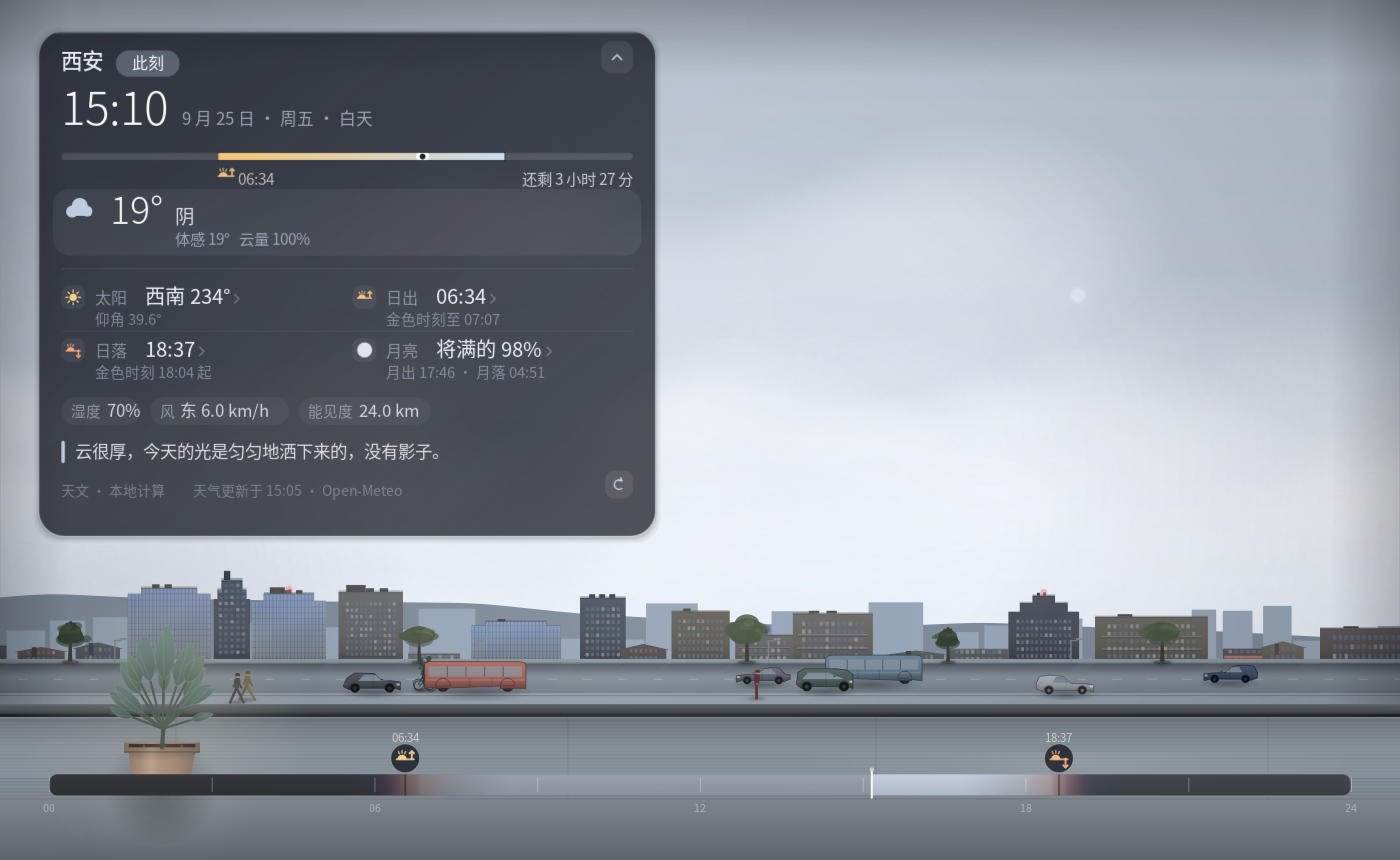
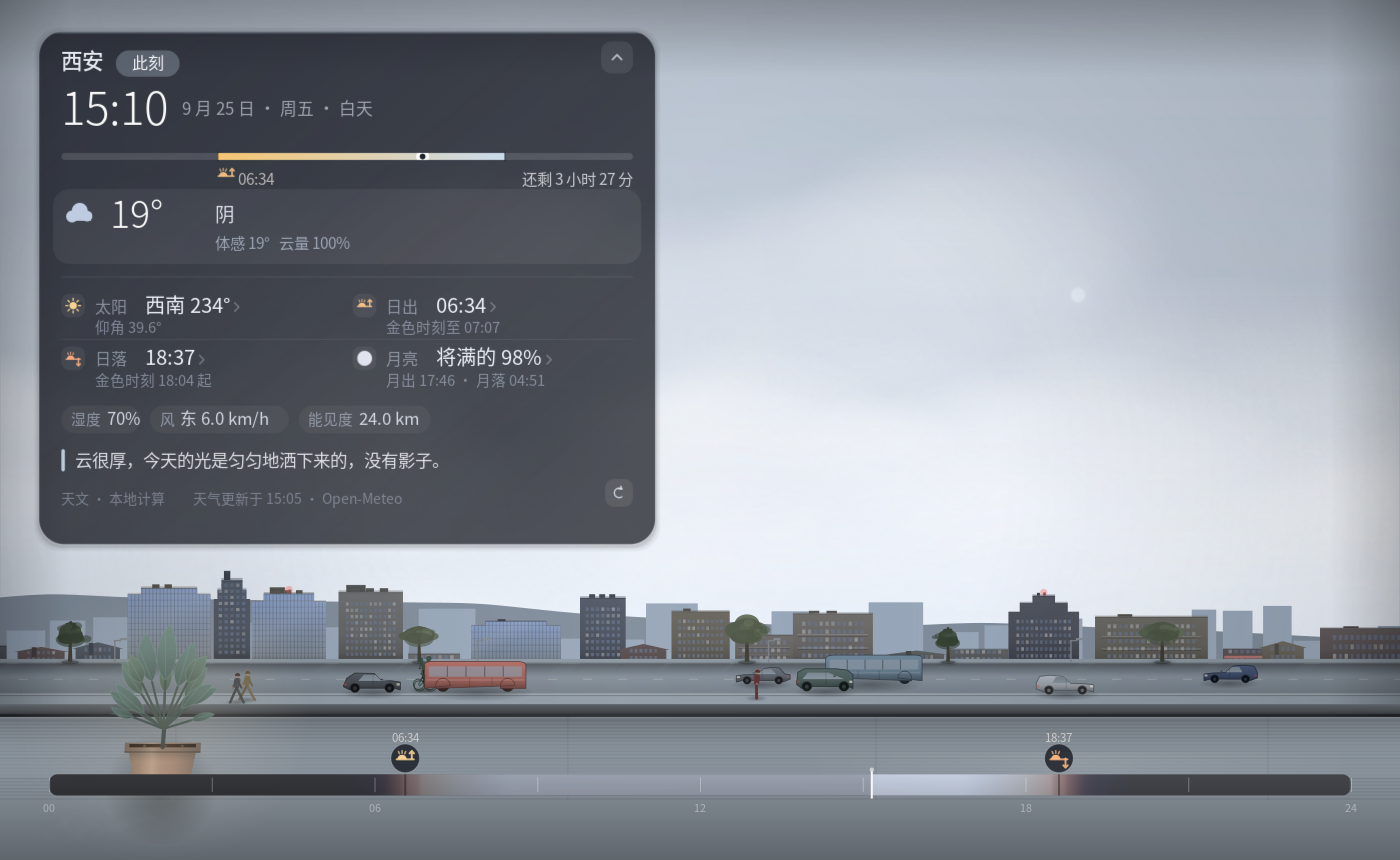
v1.1.14 第二版：主角块的温度与天气按"字面中线"对齐
用户看着截图说得很准：框里那个 21° 快飘到顶上去了，跟右边的"毛毛雨"不在一条
线上；而且右边那两行字是"跟着温度的宽度跑"的，温度一变就左右挪。

1. 大字号旁边的小字改成**按字面中线**对齐（render.optical_shift）：
   以前是"共用基线"——27 磅温度的下缘压着 14 磅的天气，温度的字面中心就高出
   小半行。现在大字中线在 `基线 − 0.36×字号`、小字在 `− 0.38×字号`，两者对齐；
   字号差不到 1.6 倍时仍然共用基线（指标格的"太阳 / 南 173°"就该那样）。
   同一处也用在大字时间与日期那一行（日期不再往下掉）。
2. 主角块改成**真正的两列**：温度占一个固定宽度的槽，右边那句天气与它下面的
   小字钉在固定的 x 上——以前它们是"跟在温度后面 9 像素"，`21°/9°/-12°` 会让
   右列左右挪（测试里对着四种温度量过，右列左边界now 恒定）。
3. 主角块内部的行距重新排过：上下留白对称，副值不贴右列第一行。

新增测试：optical_shift 的规则（含 1.6 倍门槛）+ 已有的七种窗口尺寸不越界，
共 176 条；TZ=UTC、make check、.deb(1.1.14)、满载 GUI 冒烟全过；截图重跑。

diff --git a/chuang/render.py b/chuang/render.py
@@ -173,6 +173,20 @@ def draw_text_bl(cr, text, x, baseline, size, color, alpha=1.0,
                      size, color, alpha, weight, align)
 
 
+def optical_shift(big_baseline: float, big_size: float, small_size: float) -> float:
+    """小字跟在大字旁边时，它的基线该放在哪儿。
+
+    字号差不多（差不到 1.6 倍）时**共用基线**才是"齐"的；字号差得大时相反：
+    共用基线会让大字的下缘压住小字，小字看上去往下掉（用户对着截图说的
+    "温度飘到顶上去了 / 小字掉下去了"就是这一件事的两面）。
+    那就按**字面中线**对齐：大字中线的经验位置在 `基线 - 0.36 × 字号`，
+    小字中线在 `基线 - 0.38 × 字号`，两者相等即可解出小字的基线。
+    """
+    if big_size < small_size * 1.6:
+        return big_baseline
+    return big_baseline - 0.36 * big_size + 0.38 * small_size
+
+
 def rounded_rect(cr, x, y, w, h, r):
     r = min(r, w / 2, h / 2)
     cr.new_sub_path()
@@ -2380,7 +2394,7 @@ class SkyPainter:
         show_arc = bool(sunr and suns and suns > sunr) and not compact
         head_h = 30 * scale
         time_h = (32 if compact else 42) * scale
-        hero_h = 0.0 if compact else (56 * scale if hero is not None else 0.0)
+        hero_h = 0.0 if compact else (62 * scale if hero is not None else 0.0)
         arc_h = 30 * scale if show_arc else 0
         div_h = 12 * scale if not compact else 0
         # 指标格：标题与数值一行、副值一行。行距要留够——之前 33 太小，
@@ -2658,10 +2672,13 @@ class SkyPainter:
                              time_size, (255, 255, 255), 0.97,
                              weight=Pango.Weight.LIGHT)
         weekday = "一二三四五六日"[scene.when.weekday()]
-        # 日期与那句"白天/暮色"跟大字时间共用一条基线（视觉上是一条线）
+        # 日期那一行跟着大字时间走：字号差一倍以上，**按视觉中线对齐**才齐
+        # （共用基线的话大字的下缘压着小字，小字看着就往下掉）
         draw_text_bl(cr, f"{scene.when.month} 月 {scene.when.day} 日 · 周{weekday}"
                          f" · {scene.period_name}",
-                     cx + tw + 10 * scale, base_time, self.F_DATE * ts,
+                     cx + tw + 10 * scale,
+                     optical_shift(base_time, time_size, self.F_DATE * ts),
+                     self.F_DATE * ts,
                      (226, 232, 245), 0.60)
         cy += time_h
 
@@ -2738,35 +2755,45 @@ class SkyPainter:
             cr.fill()
 
             badge = 26 * scale
-            base_h1 = hy + 25 * scale            # 温度与一句话天气共用的基线
-            base_h2 = hy + hh - 8 * scale        # 底下那行小字的基线
-            if hero is not None and not hero.note and not scene.has_weather:
-                # 没有副行的时候（比如"未联网 · 仅天文模式"）：整块居中，
-                # 别让那行字和一个空荡荡的右半张板子一起吊在上边
-                base_h1 = hy + hh * 0.5 + 6 * scale
+            # 主角块的竖向节奏：**温度与右边那句天气按"字面中线"对齐**，不是按
+            # 基线对齐。共用基线时，27 磅的温度下缘对齐 14 磅的"毛毛雨"，温度的
+            # 字面中心会高出小半行——看上去就是"温度飘到顶上去了"（用户就是这么
+            # 说的）。所以：先算出右边那句话的基线，再把它往上挪半个行高差。
+            T = self.F_HERO_TEMP * ts
+            C = self.F_HERO_WHAT * ts
+            S = self.F_HERO_SUB * ts
+            pad_v = max(4 * scale, (hh - (0.36 * T + 1.73 * C + 0.22 * S)) / 2.0)
+            base_temp = hy + pad_v + 0.72 * T
+            base_what = optical_shift(base_temp, T, C)
+            base_sub = base_what + 1.35 * C
+            base_h1, base_h2 = base_temp, base_sub
             # 图标与文字的左边线跟下面的指标格**对齐**（都是 cx 起）
             draw_icon(cr, hero.icon, hx + 6 * scale + badge / 2,
-                      base_h1 - 10 * scale,
+                      base_temp - 0.36 * T,      # 图标对齐温度的视觉中线
                       badge * 0.92, icon_tint(hero.icon), 0.95,
                       phase=scene.moon_phase)
             tx = hx + 6 * scale + badge + 9 * scale
             if scene.has_weather:
-                # 大字温度 + 一句话天气（这两样是这张卡真正的主角）
+                # **两列**：左边温度，右边天气与那行小字。右边这一列钉在固定的 x 上
+                # ——以前它是"跟在温度后面 9 像素"，于是温度是 21° / 9° / -12°
+                # 时，右边那两行会跟着左右挪，看着就是"随手摆的、没对齐"。
+                temp_text = f"{scene.temp:.0f}°"
+                slot = max(66 * scale,
+                           self._text_w(temp_text, self.F_HERO_TEMP * ts))
+                rx = tx + slot + 10 * scale
                 vw, _ = draw_text_bl(cr, f"{scene.temp:.0f}°", tx, base_h1,
                                      self.F_HERO_TEMP * ts, (255, 255, 255), 0.97,
                                      weight=Pango.Weight.LIGHT)
                 what = scene.precip_label or scene.weather_text or hero.value
-                # 一句话天气与那行小字都排在温度的右边（同一基线，但字号小一档）
-                rx = tx + vw + 9 * scale
-                draw_text_bl(cr, what, rx, base_h1, self.F_HERO_WHAT * ts,
+                draw_text_bl(cr, what, rx, base_what, C,
                              (238, 242, 250), 0.88)
-                draw_text_bl(cr, self._hero_sub(scene), rx, base_h2,
-                             self.F_HERO_SUB * ts, (208, 219, 238), 0.62)
+                draw_text_bl(cr, self._hero_sub(scene), rx, base_sub, S,
+                             (208, 219, 238), 0.62)
             else:
                 # 没有天气：老实说为什么没有，别摆一个假的度数在那儿
                 # 整块垂直居中、副值跟在右边同一行上——这一段本来就是一句话，
                 # 拆成两行会让那块板子显得又空又吊。
-                base_h1 = hy + hh * 0.5 + 5 * scale
+                base_h1 = hy + hh * 0.5 + 0.36 * 15 * ts
                 vw, _ = draw_text_bl(cr, hero.value, tx, base_h1, 15 * ts,
                                      (238, 242, 250), 0.92,
                                      weight=Pango.Weight.MEDIUM)

diff --git a/tests/test_info_card.py b/tests/test_info_card.py
@@ -273,6 +273,22 @@ class TestInfoCardDrawing(unittest.TestCase):
         self.assertGreaterEqual(P.TEXT_FLOOR, 0.9,
                                 "字号下限太低——小窗口里会缩到看不清")
 
+    def test_small_text_beside_a_big_number_is_optically_centred(self):
+        """大字号旁边的小字：**按字面中线**对齐，不是共用基线。
+
+        共用基线时，27 磅温度的下缘压着 14 磅的"毛毛雨"，温度的字面中心会高出
+        小半行——用户对着截图说的"温度飘到顶上去了"就是这件事。而字号差不多时
+        共用基线才是对的（表格里的标题与数值），所以这条规则要有那个 1.6 倍门槛。
+        """
+        from chuang.render import optical_shift
+        base, big, small = 100.0, 27.0, 14.0
+        shifted = optical_shift(base, big, small)
+        self.assertNotEqual(shifted, base, "字号差一倍还共用基线，小字会掉下去")
+        self.assertAlmostEqual(shifted - 0.38 * small, base - 0.36 * big, places=6)
+        # 字号接近时不动（指标格里的"太阳 / 南 173°"就该共用基线）
+        self.assertEqual(optical_shift(base, 11.5, 10.5), base)
+        self.assertEqual(optical_shift(base, 14.5, 11.5), base)
+
     def test_the_card_always_fits_the_window(self):
         """卡片不许比窗口还高，命中方块也不许跑出画布。
 

diff --git a/CHANGELOG.md b/CHANGELOG.md
@@ -10,6 +10,17 @@
 字号该大的不大、该小的小不下去，傍晚那一行"在西方地平线下"挤到隔壁格子里，
 预览别的日子时写着"21° 体感 0°"，小窗口里卡片比窗口还高。这一版收的就是这些。
 
+- **大字号旁边的小字改成"按字面中线"对齐。** 主角那块以前是"温度与右边那句
+  天气共用基线"：27 磅的温度下缘对齐 14 磅的"毛毛雨"，温度的字面中心就高出小半行
+  ——用户对着截图说的就是"左边那个 21° 快飘到顶上去了"。现在按字面中线对齐
+  （`render.optical_shift`：大字中线在 `基线 − 0.36×字号`，小字在 `− 0.38×字号`），
+  字号差不到 1.6 倍时仍然共用基线（指标格里的"太阳 / 南 173°"就该那样）。
+  同一处顺手也用在大字时间与日期那一行上。主角块内部的行距也重新排过：
+  上下留白对称，副值不会贴到右列第一行上。
+- **主角块是两列，不再"跟着温度跑"**：右边那句天气与它下面那行小字以前是"跟在
+  温度后面 9 像素"，于是温度是 `21°` / `9°` / `-12°` 时，右边这两行会左右挪
+  ——看着就是"随手摆的"。现在温度占一个固定宽度的槽，右列钉在固定的 x 上
+  （测试里对着 `21°/9°/-12°/0°` 四种温度量过：右列左边界一直是同一个值）。
 - **体感只在"就是此刻"的时候写。** 体感是接口"当前读数"那一组里的，逐小时预报
   表里没有它——预览别的日子时 `scene.apparent` 还是 0，写出来就是"21° 体感 0°"
   这种一眼假的东西。云量是按那一刻插值出来的，什么时候都能写。
